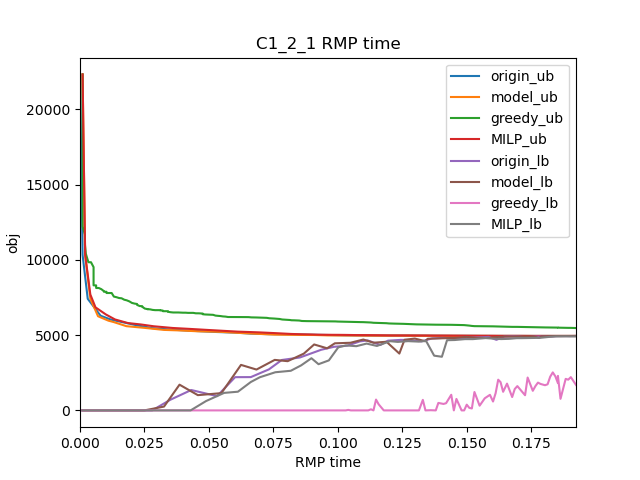
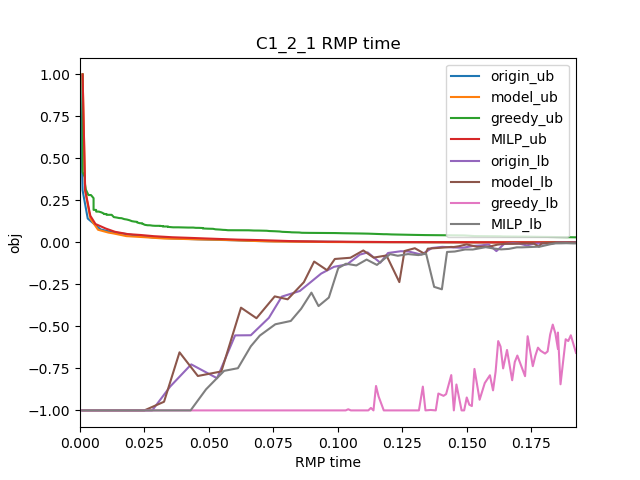
update

diff --git a/compare_experiment_SL.py b/compare_experiment_SL.py
@@ -13,7 +13,7 @@ import json
 import os
 
 args = Args()
-args.instance = "C1_2_1"
+args.instance = "C1_2_10"
 args.max_step = 200
 
 net = Net.GAT4(node_feature_dim=6, column_feature_dim=3, embed_dim=256, device=args.device)
@@ -158,18 +158,18 @@ else:
     MILP_iter_list = np.arange(len(MILP_ub_list))
 # plot graphs
 # normalize
-# max_origin_ub = max(origin_ub_list)
-# min_origin_ub = min(origin_ub_list)
-# max_origin_lb = max(origin_lb_list)
-# min_origin_lb = min(origin_lb_list)
-# origin_ub_list = (origin_ub_list - min_origin_ub) / (max_origin_ub - min_origin_ub)
-# origin_lb_list = (origin_lb_list - min_origin_lb) / (max_origin_lb - min_origin_lb)
-# model_ub_list = (model_ub_list - min_origin_ub) / (max_origin_ub - min_origin_ub)
-# model_lb_list = (model_lb_list - min_origin_lb) / (max_origin_lb - min_origin_lb)
-# greedy_ub_list = (greedy_ub_list - min_origin_ub) / (max_origin_ub - min_origin_ub)
-# greedy_lb_list = (greedy_lb_list - min_origin_lb) / (max_origin_lb - min_origin_lb)
-# MILP_ub_list = (MILP_ub_list - min_origin_ub) / (max_origin_ub - min_origin_ub)
-# MILP_lb_list = (MILP_lb_list - min_origin_lb) / (max_origin_lb - min_origin_lb)
+max_origin_ub = max(origin_ub_list)
+min_origin_ub = min(origin_ub_list)
+max_origin_lb = max(origin_lb_list)
+min_origin_lb = min(origin_lb_list)
+origin_ub_list = (origin_ub_list - min_origin_ub) / (max_origin_ub - min_origin_ub)
+origin_lb_list = (origin_lb_list - min_origin_lb) / (max_origin_lb - min_origin_lb)
+model_ub_list = (model_ub_list - min_origin_ub) / (max_origin_ub - min_origin_ub)
+model_lb_list = (model_lb_list - min_origin_lb) / (max_origin_lb - min_origin_lb)
+greedy_ub_list = (greedy_ub_list - min_origin_ub) / (max_origin_ub - min_origin_ub)
+greedy_lb_list = (greedy_lb_list - min_origin_lb) / (max_origin_lb - min_origin_lb)
+MILP_ub_list = (MILP_ub_list - min_origin_ub) / (max_origin_ub - min_origin_ub)
+MILP_lb_list = (MILP_lb_list - min_origin_lb) / (max_origin_lb - min_origin_lb)
 ## 1. RMP time
 plt.figure()
 plt.plot(origin_RLMP_time_list, origin_ub_list, label="origin_ub")
